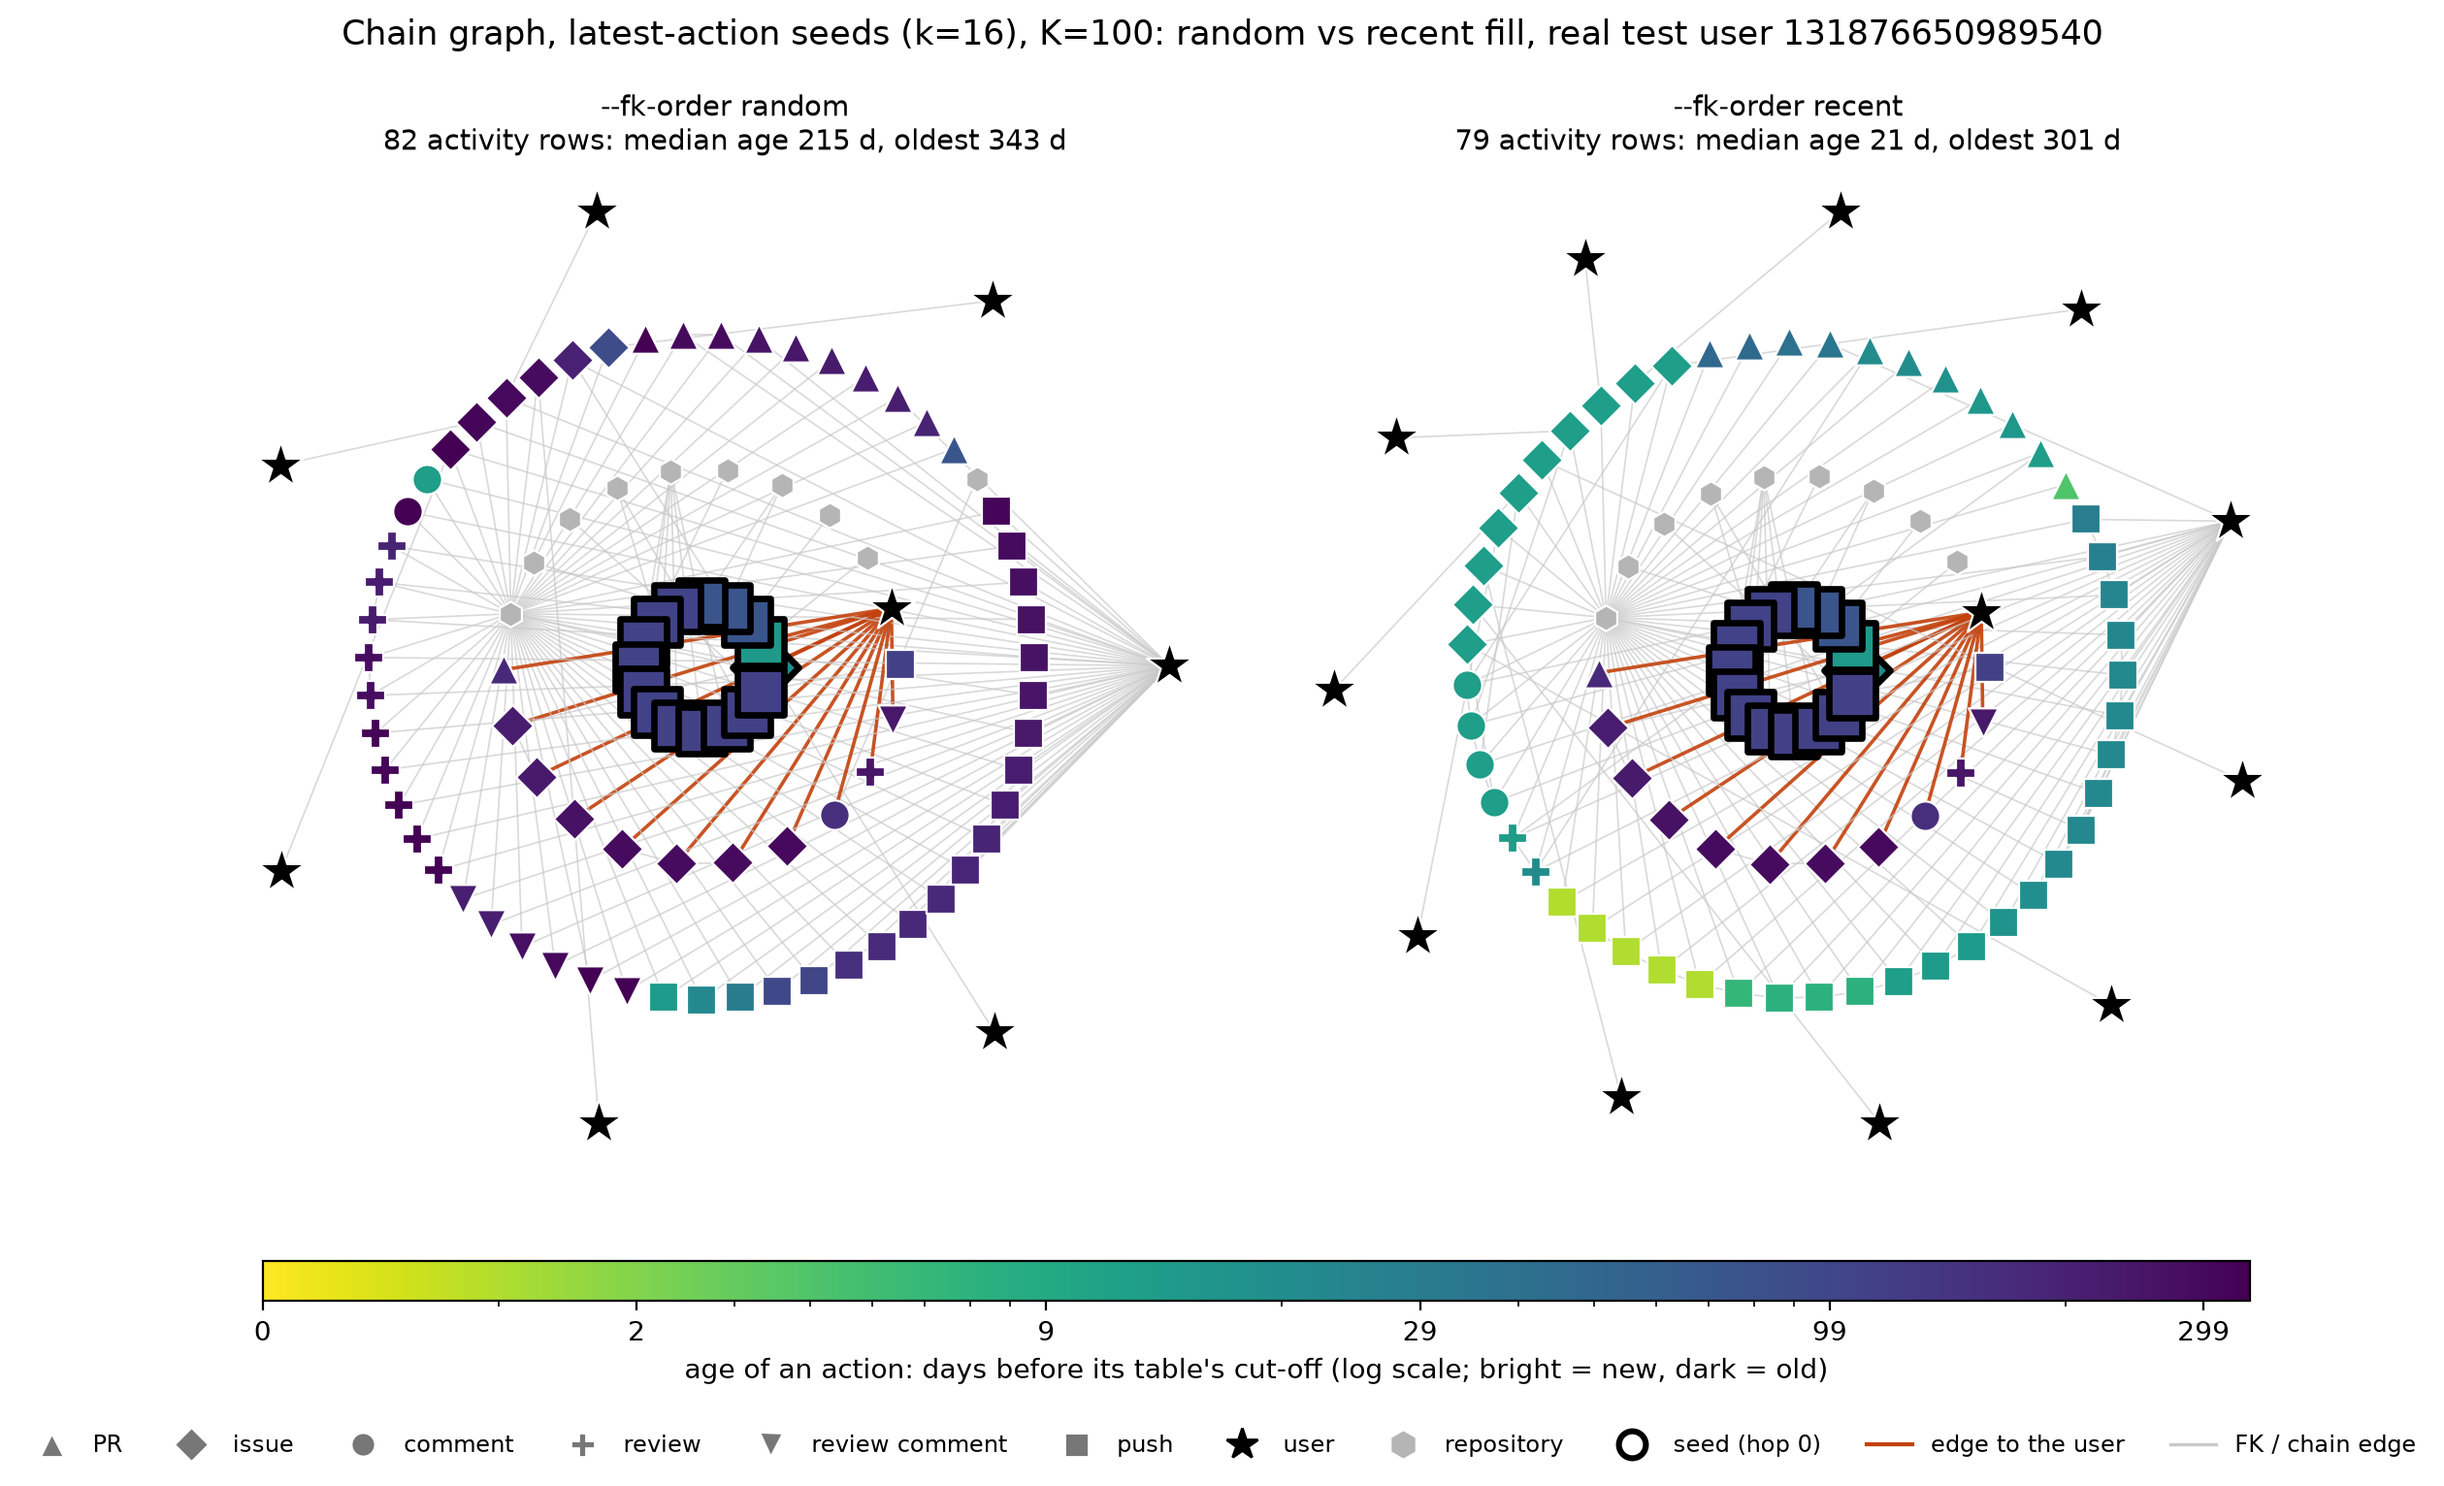
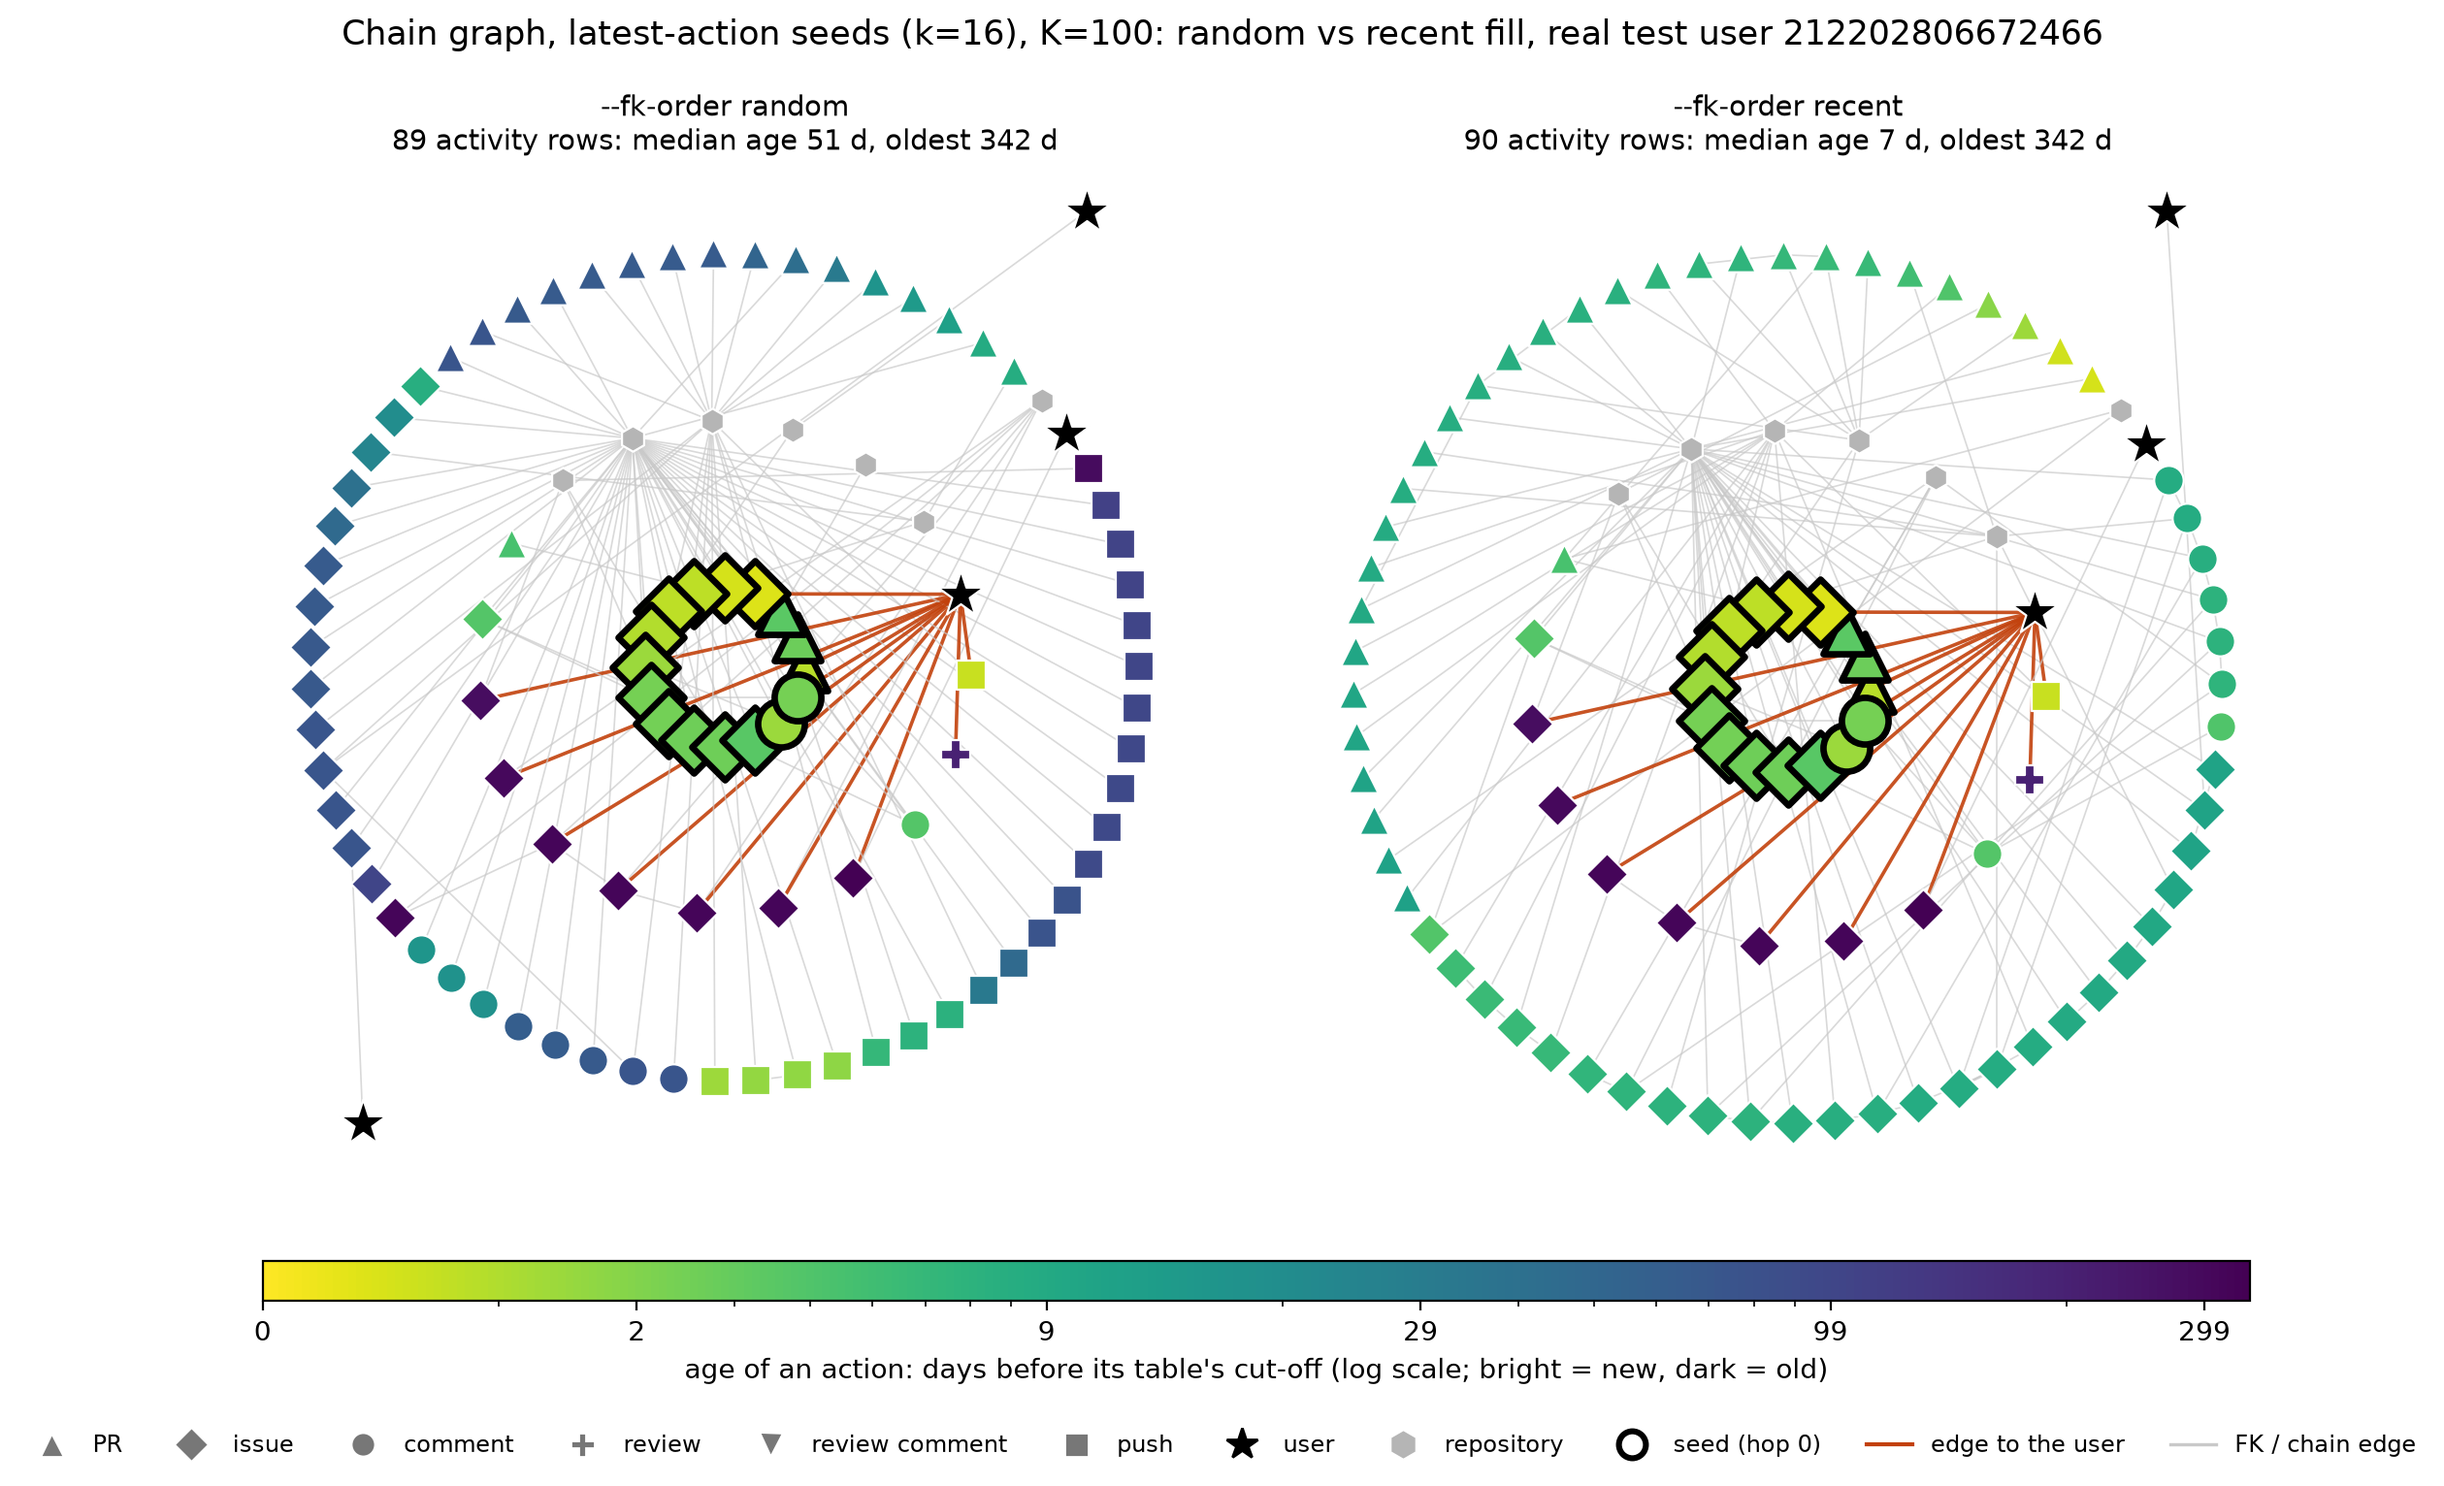
Add --max-hops experiment (relgt_hops), update recent-fill figure, remove old token graph figures

diff --git a/analysis/recent_fill_figure.py b/analysis/recent_fill_figure.py
@@ -13,7 +13,8 @@ its age, days before its table's cut-off, on one colour scale shared by both pan
 shape is its table. Users are black stars, repositories grey hexagons.
 
 Run from the repo root:
-    python analysis/recent_fill_figure.py [--num-seeds 16] [--k 100] [--user 839357836028682] [--user-rank 0]
+    python analysis/recent_fill_figure.py [--num-seeds 16] [--k 100] [--user 839357836028682] [--user-rank 0] [--recent-days 30]
+Without --user it picks the test user with the most actions in the last --recent-days days before the cut-off.
 The output is figures/recent_fill_real.png (--out to change it). Default K is 100, as in training; the walk only
 differs between the two modes if the user has more candidates than free slots, so a user with a long history shows it.
 """
@@ -33,7 +34,7 @@ if str(ROOT) not in sys.path:
 from experiments.relgt import run as R  # noqa: E402
 from analysis.relgt_graph import table_cutoffs  # noqa: E402
 from analysis.fk_vs_chain_figures import ACTIONS, SHORT, own_rows  # noqa: E402
-from analysis.multi_seed_figure import pick_user, USER_EDGE, EDGE  # noqa: E402
+from analysis.multi_seed_figure import USER_EDGE, EDGE  # noqa: E402
 
 base, TABLES = R.base, R.TABLES
 SHAPE = dict(zip(ACTIONS, ["^", "D", "o", "P", "v", "s"]))  # one marker per activity table
@@ -50,6 +51,20 @@ def sample(G, seed, cutoff, K, num_seeds, max_hops, fk_order):
 
 def age_of(G, cutoff, v):
     return float(cutoff[G.ntype[v]] - G.time[v])
+
+
+def pick_recent_user(G, seeds, visible, cutoff, days, rank):
+    """The test user with the most non-push activity rows in the last `days` days before the cut-off.
+
+    Pushes are left out of the count: a few users have thousands, which would hide the users whose recent
+    PRs / issues / comments / reviews compete for the K slots."""
+    score = np.zeros(len(seeds))
+    for j, s in enumerate(seeds):
+        o = own_rows(G, s, visible)
+        o = o[G.ntype[o] != TABLES.index("Pushes")]
+        if len(o):
+            score[j] = (cutoff[G.ntype[o]] - G.time[o] <= days).sum() + len(o) * 1e-6
+    return int(np.argsort(-score)[rank]), score
 
 
 def layout(G, ids, hop):
@@ -104,7 +119,8 @@ def main():
     ap.add_argument("--k", type=int, default=100, help="tokens per example")
     ap.add_argument("--max-hops", type=int, default=3)
     ap.add_argument("--user", type=int, default=None, help="a test UserID; default picks one")
-    ap.add_argument("--user-rank", type=int, default=0)
+    ap.add_argument("--user-rank", type=int, default=0, help="0 = the user with the most recent actions, 1 = next...")
+    ap.add_argument("--recent-days", type=float, default=30, help="window (days before cut-off) for 'recent' when picking")
     ap.add_argument("--out", type=Path, default=ROOT / "figures" / "recent_fill_real.png")
     args = ap.parse_args()
 
@@ -116,8 +132,11 @@ def main():
     test = pd.read_csv(base.TEST_INPUT)
     cidx = pd.Series(np.arange(len(cohort)), index=cohort.github_user_id.values).loc[test.UserID].values
     seeds = G.offset[TABLES.index("Users")] + cohort.user_id.values[cidx]
-    j = (int(np.flatnonzero(test.UserID.values == args.user)[0]) if args.user
-         else pick_user(G, seeds, visible, test, args.user_rank))
+    if args.user:
+        j = int(np.flatnonzero(test.UserID.values == args.user)[0])
+    else:
+        j, score = pick_recent_user(G, seeds, visible, cutoff, args.recent_days, args.user_rank)
+        print(f"picked by most non-push rows in the last {args.recent_days} d: {int(score[j])} rows")
     seed, uid = int(seeds[j]), test.UserID.values[j]
     rows = own_rows(G, seed, visible)
     print(f"user {uid}: {len(rows)} visible activity rows")

diff --git a/docs/experiments/relgt_hops.md b/docs/experiments/relgt_hops.md
@@ -1,0 +1,81 @@
+# Experiment: capping the token walk with `--max-hops` (`runs/relgt_hops_ho0927.ps1`)
+
+`relgt_chain_recent` never sets `--max-hops`, so its walk goes up to the default 50 hops. With K = 100 tokens the walk
+is full by hop 3 for about two thirds of the users (median 4 slots left after hop 2), so the cap rarely binds. Here it
+is cut: a walk that stops at the cap leaves its remaining slots to repeated random tokens.
+
+| Config | `--max-hops` | Compared with |
+|---|---|---|
+| `relgt_chain_recent_h3` | 3 | `relgt_chain_recent` (50), [sampling.md](sampling.md) |
+| `relgt_chain_recent_h5` | 5 | |
+| `relgt_chain_recent_h10` | 10 | |
+
+Only `--max-hops` differs from `relgt_chain_recent` (chain graph, `--chain-seed latest --num-seeds 16`,
+`--fk-order recent`, K = 100, 15 epochs, training labels end by 09-19, tune week 09-19 → 09-26, holdout week 09-26 16:00
+UTC). The 3 new configs have **one seed (42)** each; the reference has seeds 0-2 (runs `<cfg>_ens0926_s<seed>`).
+
+```powershell
+.\runs\relgt_hops_ho0927.ps1             # the 3 configs, seed 42, on GPUs 0 and 1, then the summaries
+.\runs\relgt_hops_ho0927.ps1 -Smoke      # pipeline check
+.\runs\relgt_hops_ho0927.ps1 -SkipRuns   # only the summaries
+```
+
+## Results
+
+Run 2026-11-18. Official 6-activity score, holdout week 09-26 16:00 UTC (6,064 users), tune week 09-19 (6,412 users).
+Ensemble command (output
+`experiments/ensemble/outputs/relgt_chain_recent+relgt_chain_recent_h3+relgt_chain_recent_h5+relgt_chain_recent_h10_ens0926/metrics.json`):
+
+```bash
+python experiments/ensemble/run.py --suffix ens0926 relgt_chain_recent relgt_chain_recent_h3 relgt_chain_recent_h5 relgt_chain_recent_h10
+```
+
+Each run's own decisions (final model = refit through 09-26; `relgt_chain_recent` is the mean of 3 seeds):
+
+| Config | Seeds | Final model | Validation model | Best epochs |
+|---|---|---|---|---|
+| `relgt_chain_recent` (50) | 3 | 53.41 (52.63-53.90) | 52.33 | 7, 12, 10 |
+| `relgt_chain_recent_h3` | 1 | 53.13 | 52.83 | 9 |
+| `relgt_chain_recent_h5` | 1 | 52.84 | 52.28 | 9 |
+| `relgt_chain_recent_h10` | 1 | 52.91 | 52.78 | 9 |
+
+Per activity F1 (final model):
+
+| Config | open_pr | open_issue | issue_comment | pr_review | pr_review_comment | push |
+|---|---|---|---|---|---|---|
+| `relgt_chain_recent` | 0.419 | 0.451 | 0.442 | 0.467 | 0.430 | 0.683 |
+| `relgt_chain_recent_h3` | 0.431 | 0.459 | 0.388 | 0.490 | 0.421 | 0.679 |
+| `relgt_chain_recent_h5` | 0.396 | 0.464 | 0.425 | 0.446 | 0.429 | 0.681 |
+| `relgt_chain_recent_h10` | 0.417 | 0.470 | 0.427 | 0.436 | 0.405 | 0.684 |
+
+Single seeds and the seed bag under the same decision rule (the bag of a 1-seed config is that seed):
+
+| Run / bag | Score | Tune | Bag vs reference `bag:relgt_chain_recent` (95% CI) |
+|---|---|---|---|
+| seed `relgt_chain_recent` s0 / s1 / s2 | 52.91 / 53.71 / 53.47 | 52.40 / 52.43 / 51.79 | |
+| seed `_h3` s42 | 53.12 | 51.93 | |
+| seed `_h5` s42 | 53.50 | 51.58 | |
+| seed `_h10` s42 | 52.91 | 52.17 | |
+| **bag `relgt_chain_recent`** (3 seeds) | **54.06** | 52.56 | reference (best tune-week score) |
+| bag `_h3` (1 seed) | 53.12 | 51.93 | -0.94 [-1.64, -0.22] |
+| bag `_h5` (1 seed) | 53.50 | 51.58 | -0.56 [-1.35, +0.20] |
+| bag `_h10` (1 seed) | 52.91 | 52.17 | -1.15 [-2.02, -0.31] |
+| mean of the 4 bags | 53.79 | 52.64 | -0.27 [-0.92, +0.41] |
+| select per activity | 54.15 | 52.53 | +0.10 [-0.43, +0.63] |
+
+The official scorer on the mean gives 53.79. `select` picked `open_pr` and `pr_review` from `_h3`, `issue_comment` from
+`_h5`, and `open_issue`, `pr_review_comment`, `push` from `relgt_chain_recent`.
+
+## Reading
+
+- **No cap helps.** The three capped single seeds score 52.84-53.13 (final model), against 53.41 for the 3-seed mean
+  at 50 hops, and each lies inside the range of the reference seeds (52.63-53.90). The seed noise is ~0.8 points, so
+  the differences between caps mean nothing.
+- The bag comparison is unfair to the caps: a bag of 3 seeds (54.06) against 1 seed. The significant gaps (`_h3`
+  -0.94, `_h10` -1.15) are mostly the bag effect (~+0.6 to +1 point for 3 seeds), not the cap.
+- Per activity, the caps move things in both directions (h3: open_pr / pr_review up, issue_comment down by 0.05);
+  these are single-seed swings, and `select` over the 4 only gains +0.10 [-0.43, +0.63].
+- Consistent with the walk being full by hop 3 for most users: the cap changes little because it rarely binds.
+
+Not adopted; `relgt_chain_recent` stays at the default 50 hops. A fair comparison would need seeds 0-2 for each cap;
+not worth it unless a reason to expect an effect appears.

diff --git a/experiments/relgt/README.md b/experiments/relgt/README.md
@@ -100,6 +100,9 @@ or an issue opened in a repository where the user pushed or was assigned an issu
 and other comments of other users are left out (`context_filter`). See
 [docs/experiments/relgt_ctx.md](../../docs/experiments/relgt_ctx.md).
 
+**`--max-hops`** (default 50) caps the walk depth; capping at 3, 5 or 10 did not help on one seed each. See
+[docs/experiments/relgt_hops.md](../../docs/experiments/relgt_hops.md).
+
 ## 5. Model
 
 Per token: node type, hop, relative time to `s`, row features (per-table residual MLP), and a GIN
